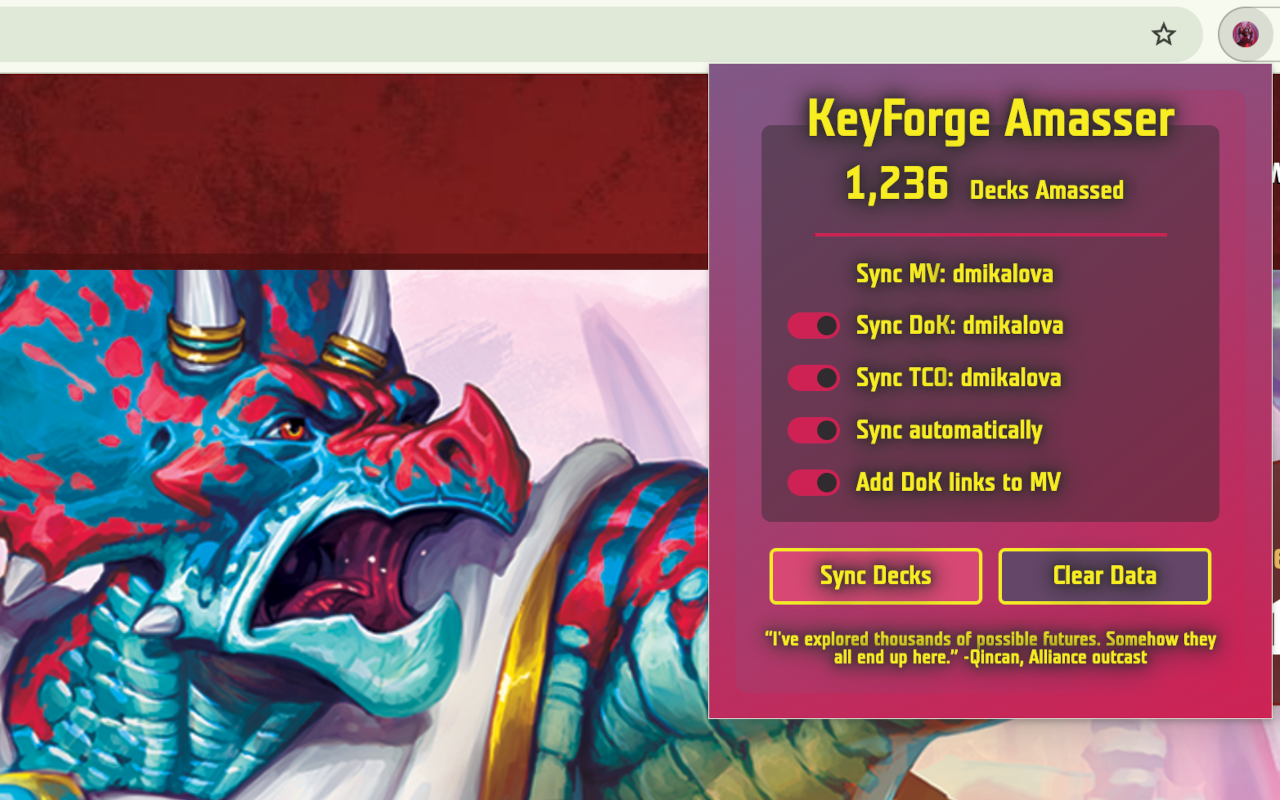
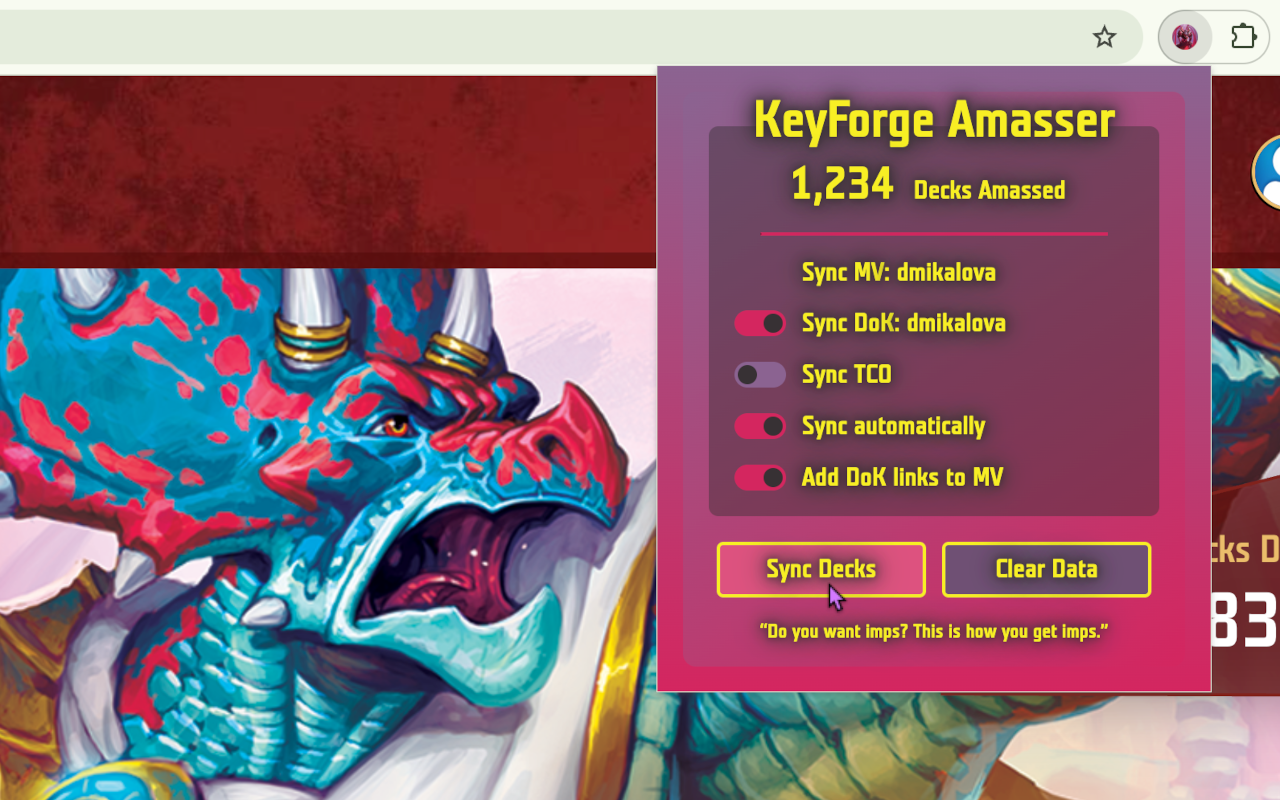
fix: MV not logged in bug

diff --git a/amasser/src/bg-mv.ts b/amasser/src/bg-mv.ts
@@ -105,10 +105,18 @@ export const getCredsMv = async (): Promise<MvCreds> => {
   if (!chrome.cookies) {
     throw new Error(`KFA: MV: Cookies API is not available`)
   }
-  const { value: token } = await chrome.cookies.get({
-    url: conf.mvBaseUrl,
-    name: 'auth',
-  })
+
+  console.debug('KFA: MV: Fetching token')
+  let token
+  try {
+    ({value: token} = await chrome.cookies.get({
+      url: conf.mvBaseUrl,
+      name: 'auth',
+    }))
+    console.log('mv token:', token)
+  } catch {
+    console.debug(`KFA: MV: Error fetching token`)
+  }
   if (!token) {
     console.debug(`KFA: MV: Not logged in`)
     return { token: null, userId: null, username: null }
@@ -120,13 +128,23 @@ export const getCredsMv = async (): Promise<MvCreds> => {
   )
     .then(r => {
       if (!r.ok) {
-        throw new Error(`KFA: MV: Failed to fetch user: ${r.status}`)
+        console.debug(`KFA: MV: Failed to fetch user: ${r.status}`)
+        return { userId: null, username: null }
       }
       return r.json()
     })
     .then(r => {
       return { userId: r.data.id, username: r.data.username }
     })
+    .catch(error => {
+      console.debug(`KFA: MV: Token is invalid: ${error}`)
+      return { userId: null, username: null }
+    })
+
+  if (!userId || !username) {
+    console.debug(`KFA: MV: Not logged in`)
+    return { token: null, userId: null, username: null }
+  }
 
   return { token: token, userId: userId, username: username }
 }

diff --git a/amasser/src/bg-tco.ts b/amasser/src/bg-tco.ts
@@ -204,8 +204,10 @@ export const getCredsTco = async (): Promise<TcoCreds> => {
       }
       return r.json()
     })
-    .catch(error => {
+    .catch(async error => {
+      await storage.remove('authTco')
       console.warn(`KFA: TCO: Error fetching user: ${error}`)
+      return { user: { id: null, username: null }, token: null }
     })
 
   return {

diff --git a/amasser/src/lib-html.ts b/amasser/src/lib-html.ts
@@ -134,6 +134,7 @@ const userLoad = async (
 ) => {
   console.debug(`KFA: POP: Getting username for ${elementId}`)
   const { username } = await authFn()
+  console.debug(`KFA: POP: Username for ${elementId}: ${username}`)
   if (username) {
     const usernameElem = document.getElementById(elementId)
     if (usernameElem) {
